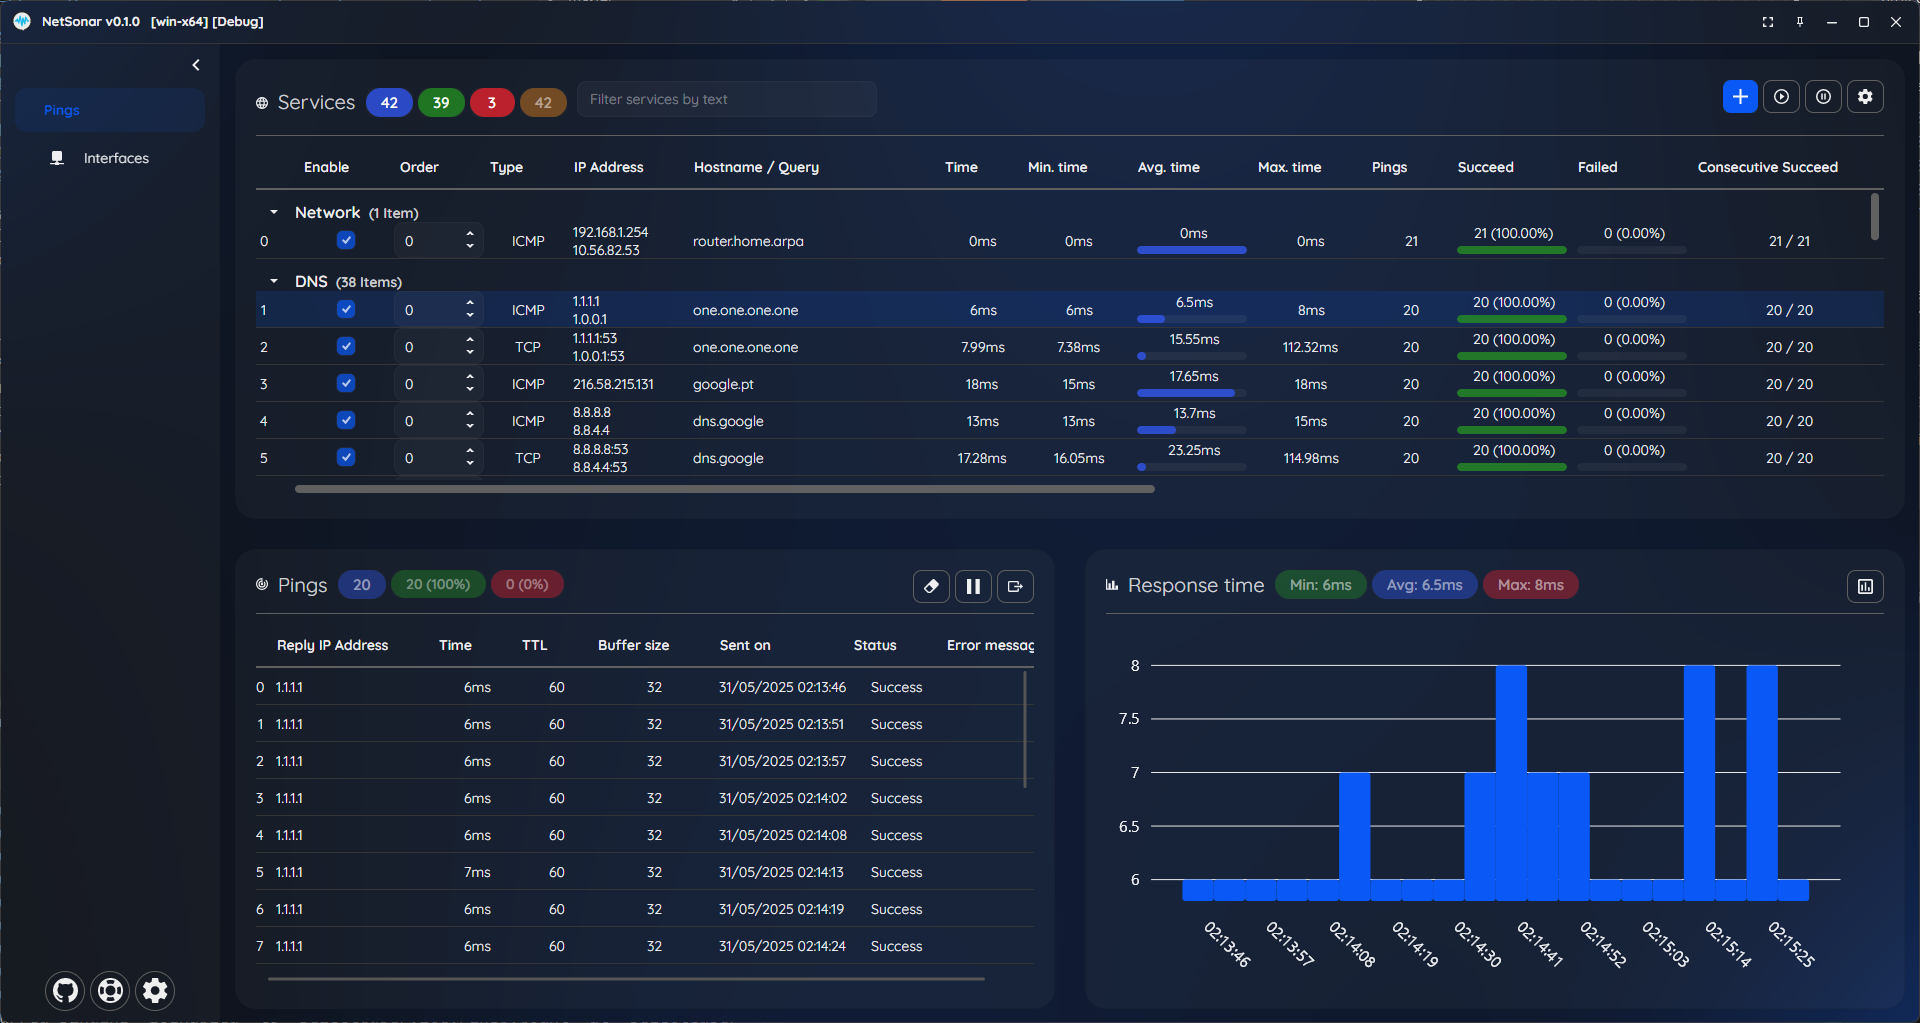
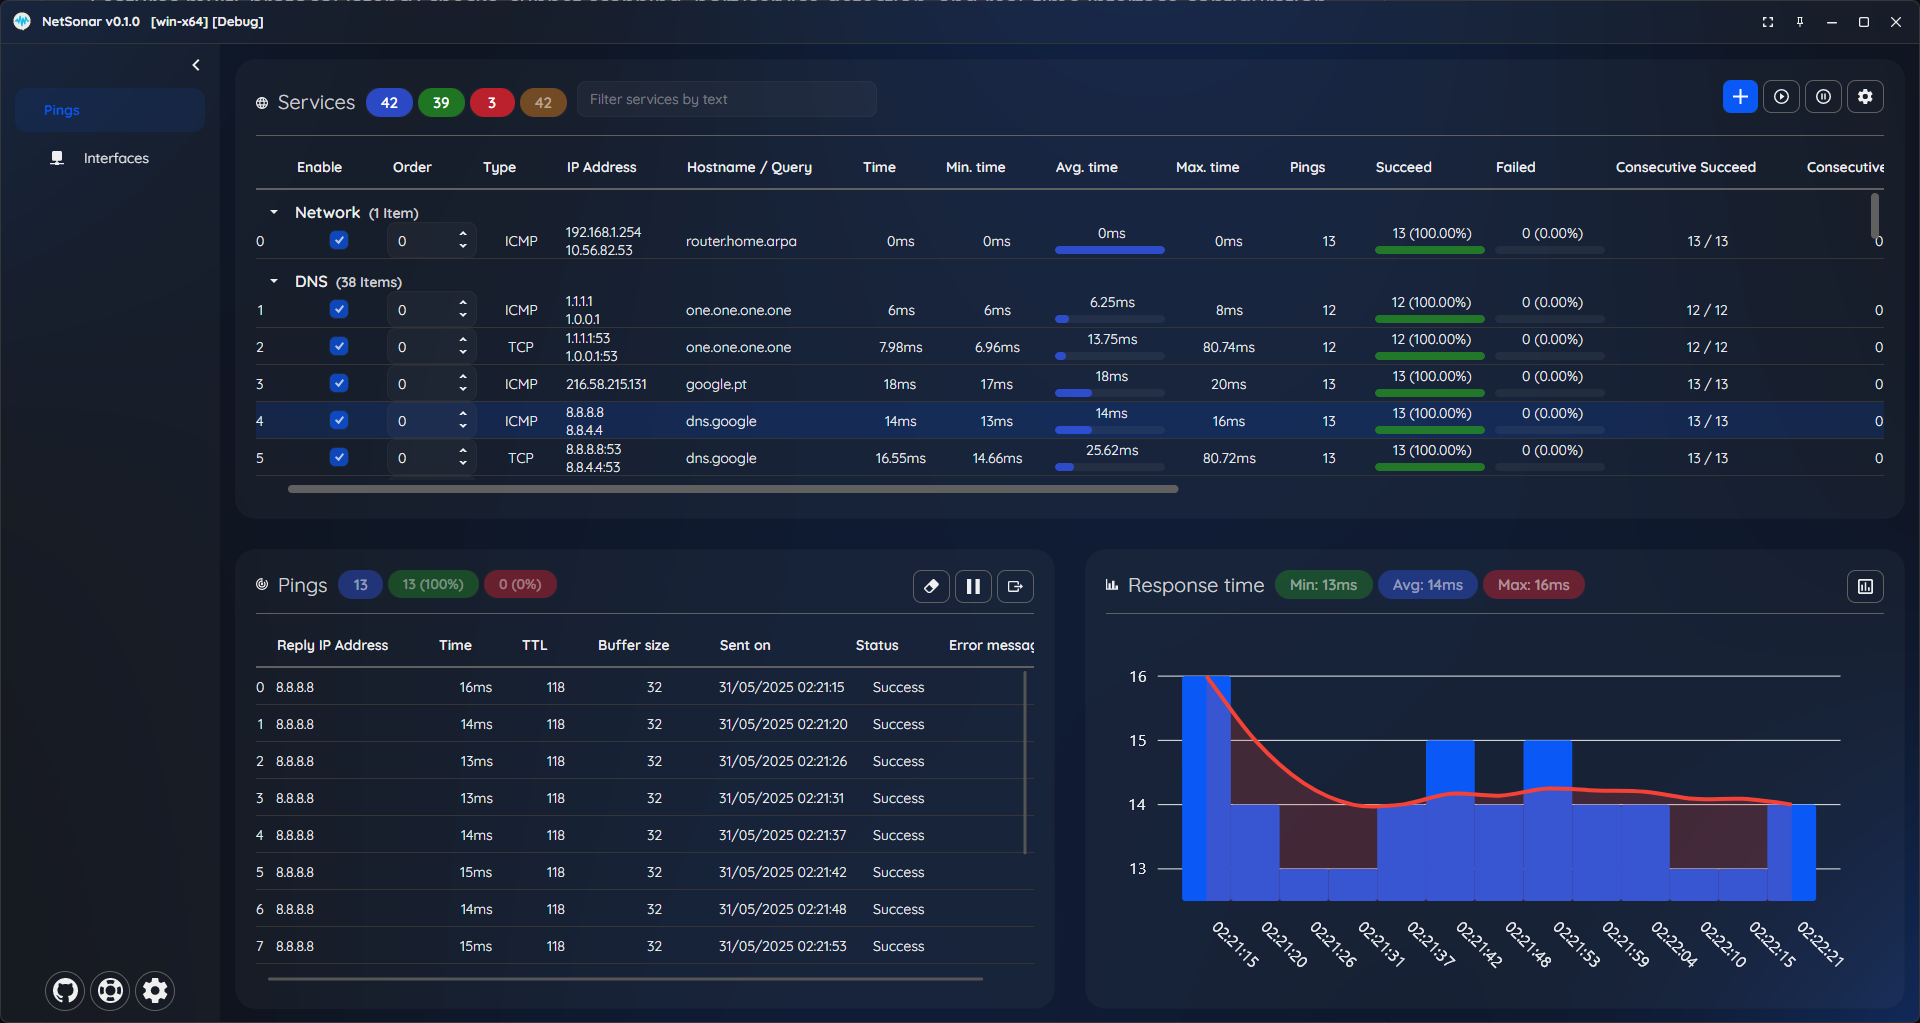
Replace pings screenshot

diff --git a/src/NetSonar/ViewModels/PingableServicesPageModel.cs b/src/NetSonar/ViewModels/PingableServicesPageModel.cs
@@ -650,9 +650,9 @@ public partial class PingableServicesPageModel : PageViewModelBase
 
         GenericWindow window = new()
         {
-            Title = $"{App.Software} Chart",
+            Title = $"{App.SoftwareWithVersion}  Chart",
             CanPin = true,
-            Content = new ContentPresenter()
+            Content = new ContentPresenter
             {
                 Margin = new Thickness(20),
                 Content = new PingableServiceGraphFragmentModel(_servicesDataGrid.SelectedItems.AsValueEnumerable<PingableService>().ToArray())
